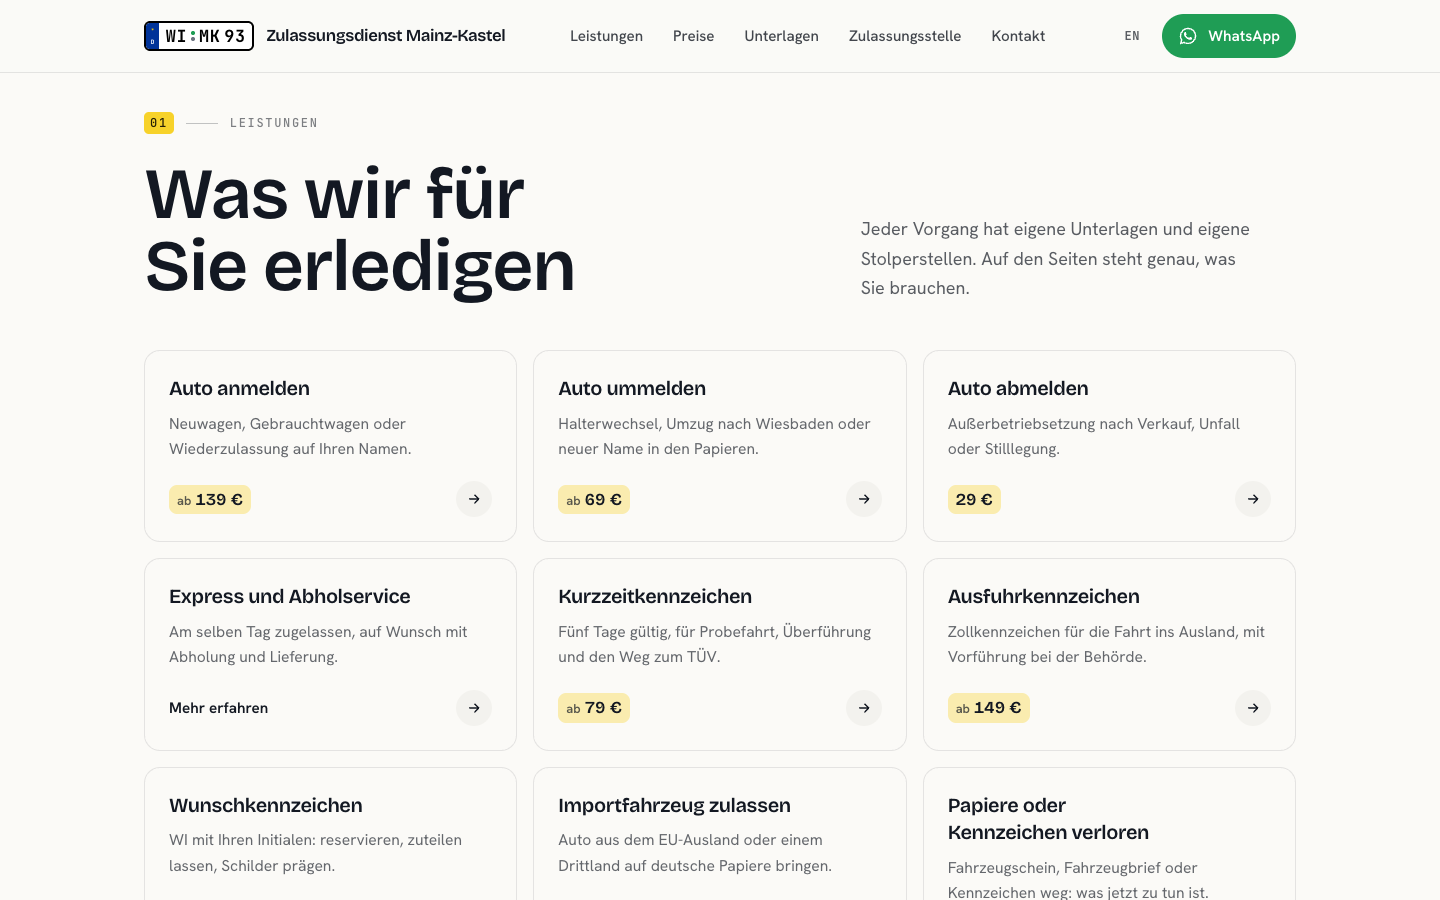
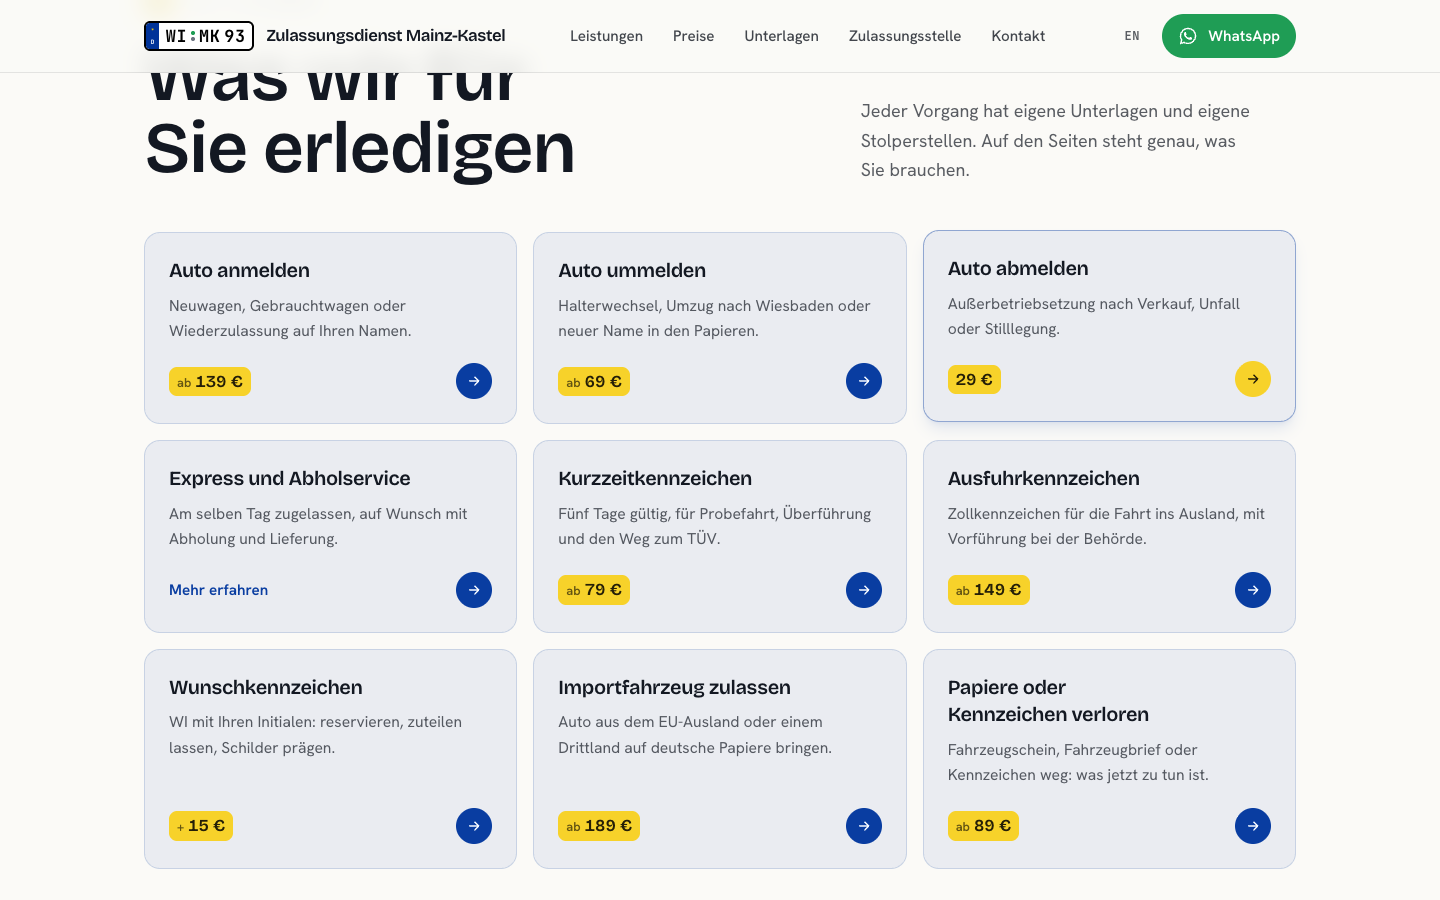
Give the service cards a light blue tint
Cards get a pale tint of the site's blue with a thin blue border, solid
yellow price tags and a blue arrow button that turns yellow on hover.
Applies to the home page grid, the services page and the related links.

diff --git a/src/components/pages.tsx b/src/components/pages.tsx
@@ -142,25 +142,25 @@ export function PageCard({ id, lang }: { id: string; lang: Lang }) {
   const doc = page(id);
   const p = doc[lang];
   const arrow = (
-    <span className="flex size-9 shrink-0 items-center justify-center rounded-full bg-base-200 transition-colors duration-200 group-hover:bg-neutral group-hover:text-neutral-content">
+    <span className="flex size-9 shrink-0 items-center justify-center rounded-full bg-primary text-primary-content transition-colors duration-200 group-hover:bg-secondary group-hover:text-secondary-content">
       <ArrowIcon />
     </span>
   );
   return (
     <Link
       href={href(id, lang)}
-      className="group flex h-full items-center gap-4 rounded-2xl border border-base-content/10 bg-base-100 px-4 py-3.5 transition-[transform,border-color,box-shadow] duration-200 hover:-translate-y-0.5 hover:border-base-content/25 hover:shadow-lg hover:shadow-neutral/5 focus-visible:outline-2 focus-visible:outline-primary sm:flex-col sm:items-stretch sm:gap-0 sm:p-6"
+      className="group flex h-full items-center gap-4 rounded-2xl border border-primary/15 bg-primary/[0.07] px-4 py-3.5 transition-[transform,border-color,box-shadow] duration-200 hover:-translate-y-0.5 hover:border-primary/40 hover:shadow-lg hover:shadow-primary/10 focus-visible:outline-2 focus-visible:outline-offset-2 focus-visible:outline-primary sm:flex-col sm:items-stretch sm:gap-0 sm:p-6"
     >
       <div className="min-w-0 flex-1 sm:flex sm:flex-col">
         <h3 className="font-display text-[1.08rem] leading-snug font-semibold sm:text-xl">{p.nav}</h3>
-        <p className="mt-2 hidden flex-1 text-[0.98rem] leading-relaxed text-base-content/65 sm:block">{p.teaser ?? p.lead}</p>
+        <p className="mt-2 hidden flex-1 text-[0.98rem] leading-relaxed text-base-content/70 sm:block">{p.teaser ?? p.lead}</p>
         <div className="mt-1.5 sm:mt-5 sm:flex sm:items-center sm:justify-between sm:gap-4">
           {doc.price ? (
-            <span className="inline-flex rounded-lg bg-secondary/35 px-2 py-0.5">
+            <span className="inline-flex rounded-lg bg-secondary px-2 py-0.5 text-secondary-content">
               <AmountTag id={id} lang={lang} />
             </span>
           ) : (
-            <span className="text-[0.95rem] font-semibold">{ui[lang].more}</span>
+            <span className="text-[0.95rem] font-semibold text-primary">{ui[lang].more}</span>
           )}
           <span className="hidden sm:flex">{arrow}</span>
         </div>
